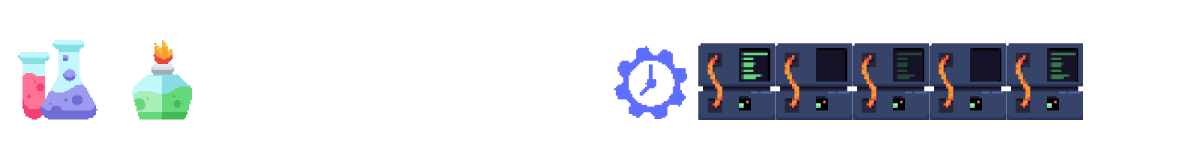
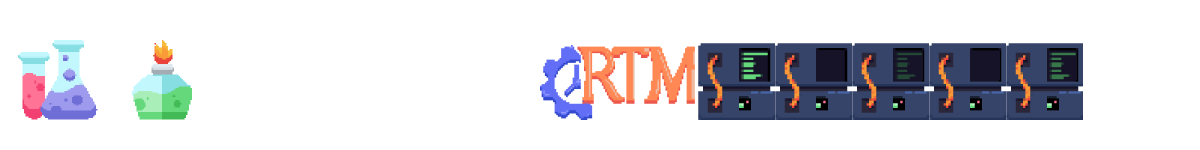
add rtm as last obstacle

Changed region(s): [[0.4317, 0.2933, 0.5858, 0.8]]

diff --git a/public/trex-runner/js/obstacle.js b/public/trex-runner/js/obstacle.js
@@ -209,9 +209,9 @@ Obstacle.types = [
   },
   {
     type: 'COG', //  this was petro //TODO: CHANGE THIS
-    width: 40,
+    width: 78,
     height: 40,
-    yPos: 100, // Variable height.
+    yPos: 105, // Variable height.
     //yPosMobile: [ 100, 50 ], // Variable height mobile.
     multipleSpeed: 7,
     minSpeed: 0, //this was 8.5

diff --git a/public/trex-runner/js/game.js b/public/trex-runner/js/game.js
@@ -175,7 +175,7 @@
 			DOUBLE_POTION: {x:17, y:40},
 			POTION: {x:131, y:38},
 			PC: {x:698, y:42},
-			COG: {x:613, y:45}
+			COG: {x:540, y:45}
 		},
 	};
 
